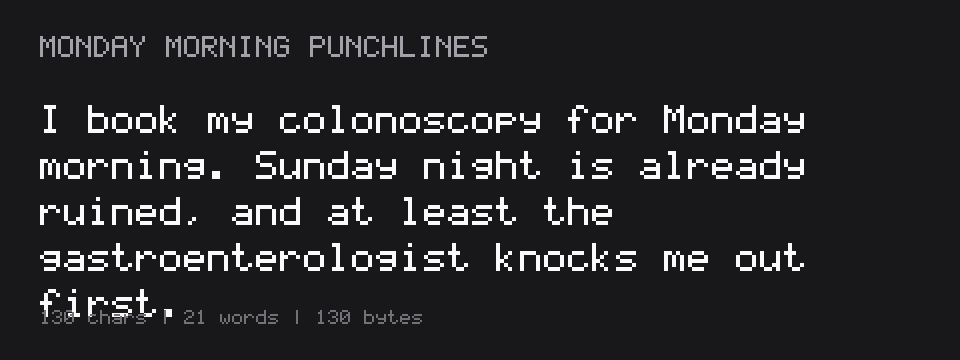
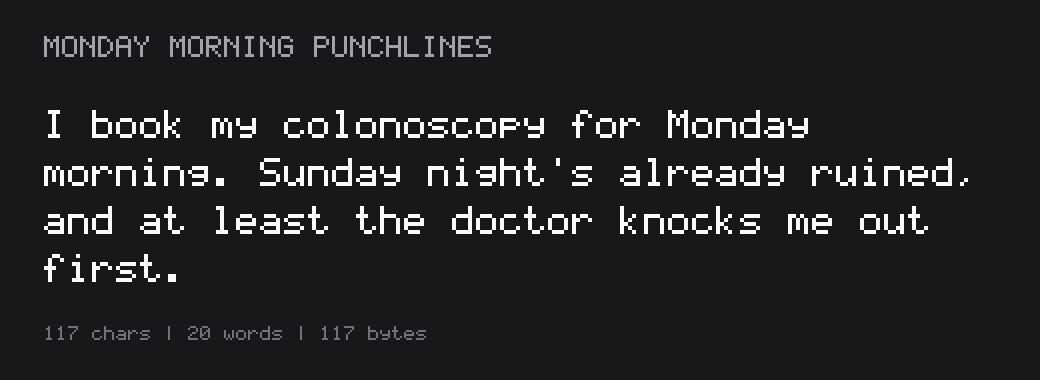
Tighten wording to 'the doctor' and expand screenshot layout

diff --git a/main.ts b/main.ts
@@ -1,7 +1,7 @@
 import { mkdirSync, writeFileSync } from "node:fs";
 
 const ENTRY =
-  "I book my colonoscopy for Monday morning. Sunday night is already ruined, and at least the gastroenterologist knocks me out first.";
+  "I book my colonoscopy for Monday morning. Sunday night's already ruined, and at least the doctor knocks me out first.";
 
 mkdirSync("/output", { recursive: true });
 writeFileSync("/output/entry.txt", ENTRY, "utf8");
